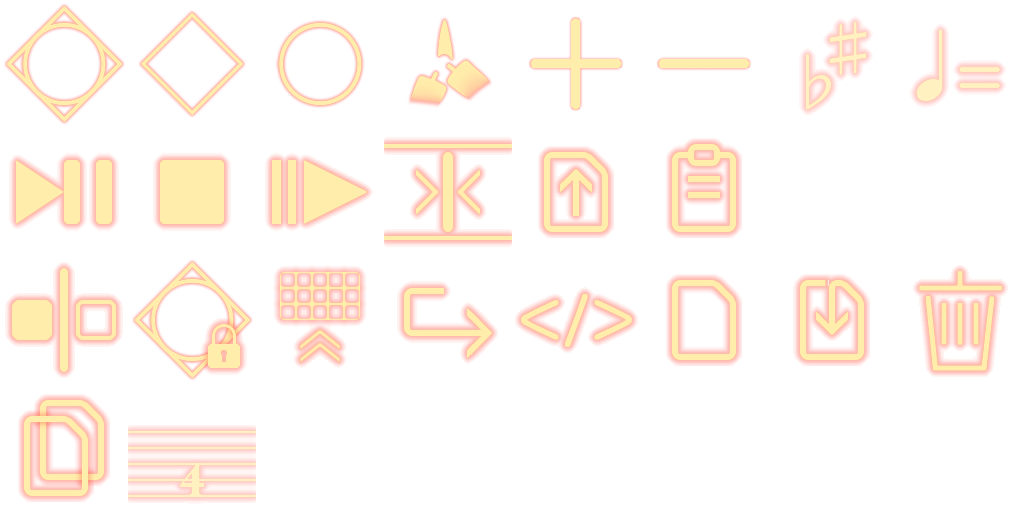
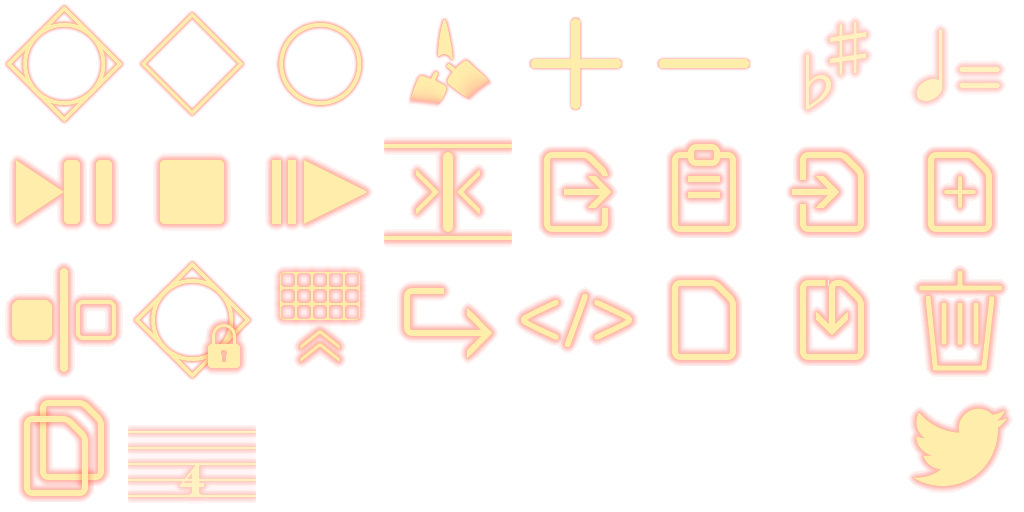
-

Changed region(s): [[0.75, 0.2812, 1.0, 0.4688], [0.875, 0.7812, 1.0, 0.9688], [0.5312, 0.3125, 0.625, 0.4375]]

diff --git a/seq.js b/seq.js
@@ -3,7 +3,7 @@ alert=(x,mw)=>{albox.textContent=x;albox.style.pointerEvents=mw?'':'none';albox.
 //window.onbeforeunload=e=>{e.preventDefault();return'';};
 
 let sc=Number(sc_.value),main,calced={ind:[],p:[]},curpos=0,userscr=[false,false],urstack,rawexet,screxet,noteclip,from_url;
-const info='⚠alpha test⚠\n\nPowerd by Tone.js\nAudio: GarageBand\n\nauthor:@McbeEringi\nbuild:2103030\nMIT License\n',
+const info='⚠alpha test⚠\n\nPowerd by Tone.js\nAudio: GarageBand\n\nauthor:@McbeEringi\nbuild:2103040\nMIT License\n',
 llog=(x,c)=>{if(logcb.checked){if(c)log.textContent='';log.textContent+=`${x}\n`;}},
 seq=new Tone.Sequence((time,note)=>{
 	note=note.split(',');
@@ -124,8 +124,8 @@ document.querySelectorAll('#kb p').forEach((e,i)=>{
 	e.addEventListener('mousedown',keyfx,{passive:false});
 });
 document.addEventListener('keydown',e=>{
-	llog(e.code);
-	if(!['INPUT','TEXTAREA'].includes(document.activeElement.tagName)){
+	if(!['INPUT','TEXTAREA'].includes(document.activeElement.tagName)&&!alcb.checked){
+		llog(e.code);
 		switch(e.code){
 			case'Space':e.preventDefault();ttoggle();break;
 			case'ArrowUp':e.preventDefault();if(e.shiftKey)bpm_.parentNode.nextElementSibling.onclick();else sc_.value=++main.sc;break;
@@ -217,7 +217,15 @@ const sopt={
 	onStart:()=>dispCur.style.opacity='0',onEnd:()=>dispCur.style.opacity='1',
 	invertSwap:true,animation:150,forceFallback:true,direction:'horizontal',delay:100,delayOnTouchOnly:false,
 	onClone:e=>e.clone.querySelectorAll('.sort').forEach(x=>new Sortable(x,sopt)),
-	onSort:e=>{if(e.to.id!='clip')requestIdleCallback(()=>{d2d();curset();d2a();});else ccset();}
+	onSort:e=>{
+		if(e.to.id!='clip')
+			requestIdleCallback(()=>{
+				d2d();
+				if(curpos<0)curpos=0;else if(calced.length-1<curpos)curpos=calced.length-1;
+				curset();d2a();kbset();
+			});
+		else ccset();
+	}
 },
 a2d=()=>{
 	const core=(scores,e,b,l=1)=>{
@@ -260,7 +268,7 @@ a2d=()=>{
 d2a=()=>{
 	const core=e=>
 		Array.from(e.children,x=>{
-			if(x.classList.contains('note'))return x.dataset.note;//Array.from(x.children,y=>i2n_[y.style.bottom.slice(0,-2)/16]).join(',');
+			if(x.classList.contains('note'))return x.dataset.note;
 			else if(x.classList.contains('sortW'))return core(x.children[0]);
 		});
 	console.time('d2a');
@@ -300,11 +308,12 @@ save=()=>{
 	req.onsuccess=()=>{alert('✅\nsaved.')};
 },
 load=()=>{
-	let req=idb.result.transaction('seq','readwrite').objectStore('seq').getAllKeys();
+	let req=idb.result.transaction('seq','readwrite').objectStore('seq').getAllKeys(),
+		tpl=`<button onclick="main=null;init();alcb.checked=false;"class="grid bg" style="--bp:-700% -100%;">new</button><button onclick="dbfx.inp();"class="grid bg" style="--bp:-600% -100%;">inport</button><br>`;
 	req.onsuccess=e=>{
 		console.log(e.target.result);
 		albox.textContent='';
-		albox.insertAdjacentHTML('beforeend',`<div>New sheet<br><br><button onclick="main=null;init();alcb.checked=false;"class="grid bg" style="--bp:0 -100%;">open</button></div>`);
+		albox.insertAdjacentHTML('beforeend',tpl);
 		dbfx.tmp=e.target.result;
 		e.target.result.forEach((x,i)=>requestIdleCallback(()=>{
 			albox.insertAdjacentHTML('beforeend',`<div>${x}<br><br><button
@@ -319,7 +328,7 @@ load=()=>{
 	};
 	req.onerror=e=>{
 		albox.textContent=`⚠\ncoudnt load datas.\n\n${e.target.error}`;
-		albox.insertAdjacentHTML('beforeend',`<div>New sheet<br><br><button onclick="main=null;init();alcb.checked=false;"class="grid bg" style="--bp:0 -100%;">open</button></div>`);
+		albox.insertAdjacentHTML('beforeend',tpl);
 	};
 },
 dbfx={
@@ -339,9 +348,15 @@ dbfx={
 	exp:i=>{
 		dbfx.get(i,e=>{
 			albox.textContent='';
-			albox.insertAdjacentHTML('beforeend',`Ready to export<p contenteditable style="color:#aef;background:#0004;padding:8px;border-radius:4px;white-space:nowrap;overflow:scroll;">${urlfx.e(e.target.result)}</p><button
-			onclick="navigator.clipboard.writeText(this.previousElementSibling.textContent).then(()=>alcb.checked=false);"class="grid bg" style="--bp:0 -300%;">copy</button>`);
+			albox.insertAdjacentHTML('beforeend',`Ready to export "${e.target.result.name}"<p contenteditable style="color:#aef;background:#0004;padding:8px;border-radius:4px;white-space:nowrap;overflow:scroll;">${urlfx.e(e.target.result)}</p><button
+			onclick="navigator.clipboard.writeText(this.previousElementSibling.textContent).then(()=>alcb.checked=false);" class="grid bg" style="--bp:0 -300%;">copy</button><button
+			onclick="window.open('https://twitter.com/share?text=${encodeURIComponent(e.target.result.name)}%0Aby%20sky_sequencer&url='+encodeURIComponent(this.previousElementSibling.previousElementSibling.textContent));alcb.checked=false;" class="grid bg" style="--bp:-700% -300%;">tweet</button>`);
 		});
+	},
+	inp:()=>{
+		albox.textContent='';
+		albox.insertAdjacentHTML('beforeend',`Inport from URL<p contenteditable style="color:#aef;background:#0004;padding:8px;border-radius:4px;white-space:nowrap;overflow:scroll;"></p><button
+		onclick="main=urlfx.l(this.previousElementSibling.textContent.split('#',2)[1]);alcb.checked=false;init();"class="grid bg" style="--bp:-600% -100%;">inport</button>`);
 	},
 	del:function(i){
 		let req=idb.result.transaction('seq','readwrite').objectStore('seq').delete(this.tmp[i]);
@@ -367,11 +382,11 @@ urlfx={
 	e:(dat=Object.assign({},main))=>{
 		dat.scores=urlfx.dmap(dat.scores,x=>x.split(',').map(y=>{if(y){y=Number(y)+15;return(y<0?'-':'')+Math.abs(y).toString(36);}}).join('.'));
 		dat.scores=JSON.stringify(dat.scores).replace(/\"/g,'').replace(/\],\[/g,'*').replace(/,/g,'~').replace(/\[/g,'!').replace(/\]/g,'_');
-		return location.href.split('#')[0]+'#'+encodeURIComponent(JSON.stringify(dat));
+		return 'https://mcbeeringi.github.io/sky/seq.html#'+encodeURIComponent(JSON.stringify(dat));
 	},
-	l:(str=decodeURIComponent(location.hash.slice(1)))=>{
+	l:(str=location.hash.slice(1))=>{
 		if(!str)return;
-		let dat=JSON.parse(str);
+		let dat=JSON.parse(decodeURIComponent(str));
 		dat.scores=dat.scores.replace(/\*/g,'],[').replace(/~/g,',').replace(/!/g,'[').replace(/_/g,']');
 		dat.scores=JSON.parse(dat.scores.replace(/([\[\,])([^\[\]\,\"]*)([\]\,])/g,'$1"$2"$3').replace(/([\[\,])([^\[\]\,\"]*)([\]\,])/g,'$1"$2"$3'));
 		dat.scores=urlfx.dmap(dat.scores,x=>x.split('.').map(y=>{if(y)return parseInt(y,36)-15;}).join(','));

diff --git a/seq.html b/seq.html
@@ -23,7 +23,7 @@
 	<link rel="manifest" href="skymf.json">
 	<meta name="theme-color" content="#fea"/>
 	<script>
-		//if('serviceWorker'in navigator)window.addEventListener('load',()=>{navigator.serviceWorker.register('skysw.js').then((reg)=>{console.log('[ServiceWorker] Registered',reg);});});
+		if('serviceWorker'in navigator)window.addEventListener('load',()=>{navigator.serviceWorker.register('skysw.js').then((reg)=>{console.log('[ServiceWorker] Registered',reg);});});
 	</script>
 	<link rel="preload" href="https://cdn.jsdelivr.net/npm/tone/build/Tone.js" as="script">
 	<link rel="preload" href="https://cdn.jsdelivr.net/npm/sortablejs/Sortable.min.js" as="script">
@@ -142,10 +142,10 @@
 	</div>
 	<div class="clear_fix">
 		<div class="uiPanel float_r">
-			        <label for="kblock" class="grid bg" style="--bp:-100% -200%;">lock keyboard
+			         <button onclick="Tone.Transport.pause();styperf.textContent='';alert('Loading…','none');load();" class="grid bg" style="--bp:-500% -200%;">load
+			</button><label for="kblock" class="grid bg" style="--bp:-100% -200%;">lock keyboard
 			</label><label for="kbfixed" class="grid bg" style="--bp:-200% -200%;">practice
-			</label><button onclick="Tone.Transport.pause();styperf.textContent='';alert('Loading…','none');load();" class="grid bg" style="--bp:-500% -200%;">load
-			</button><button id="rawedit" class="grid bg" style="--bp:-400% -200%;">raw edit
+			</label><button id="rawedit" class="grid bg" style="--bp:-400% -200%;">raw edit
 			</button><button id="ibtn" class="grid bg" style="--bp:-300% 0;">info
 			</button><label><input id="ts_" class="grid bg showtxt" onchange="tsset();" style="--bp:-100% -300%;"></input></label><br><button onclick="main.bpm-=6;Tone.Transport.bpm.value-=6;bpm_.value=main.bpm;" class="grid bg" style="--bp:-500% 0;">slow
 			</button><label><input id="bpm_" class="grid bg showtxt" onchange="bpmset();" style="--bp:-700% 0;"></input></label><button onclick="main.bpm+=6;Tone.Transport.bpm.value+=6;bpm_.value=main.bpm;" class="grid bg" style="--bp:-400% 0;">fast
